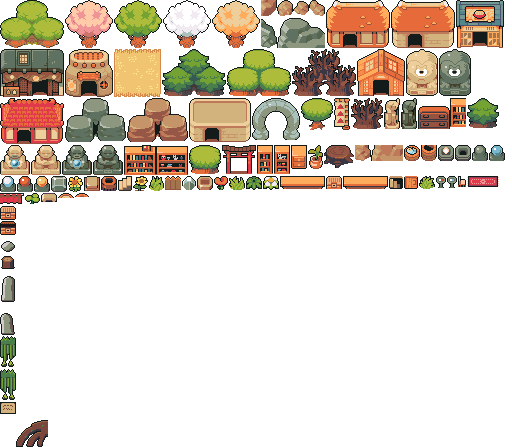
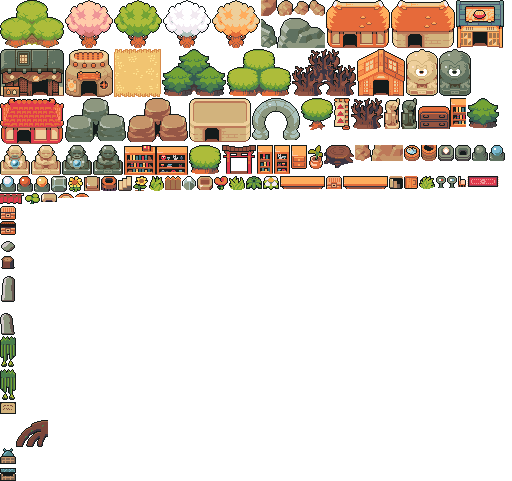
objects.png: grow the atlas to hold #52's supply_box rows (merge kept #50's 447px canvas); objects_overlay fails loudly on off-image/clipped cells; test:art checks every objects.json cell fits and is visible

Changed region(s): [[0.0, 0.0, 1.0, 1.0], [0.3438, 0.0, 0.4062, 0.0291]]

diff --git a/tools/art_custom.py b/tools/art_custom.py
@@ -126,10 +126,21 @@ def objects_overlay(log=True):
         if (w, h) != im.size:
             y = atlas.height + 1; x = 0; grown = Image.new('RGBA', (max(atlas.width, im.width), y + im.height), (0, 0, 0, 0))
             grown.alpha_composite(atlas, (0, 0)); atlas = grown; frames[n] = [x, y, im.width, im.height]; changed = True
+        if x + im.width > atlas.width or y + im.height > atlas.height:   # rect recorded in objects.json past the canvas (e.g. a merge kept a
+            # shorter objects.png than the objects.json it came with): grow the canvas to hold it instead of letting paste() clip it
+            grown = Image.new('RGBA', (max(atlas.width, x + im.width), max(atlas.height, y + im.height)), (0, 0, 0, 0))
+            grown.alpha_composite(atlas, (0, 0)); atlas = grown; changed = True
+            if log: print(f'art/custom objects: grew objects.png to {atlas.size} for {n} at {frames[n]}')
         cur = atlas.crop((x, y, x + im.width, y + im.height))
         if cur.tobytes() != im.tobytes():
             atlas.paste(Image.new('RGBA', im.size, (0, 0, 0, 0)), (x, y)); atlas.paste(im, (x, y)); changed = True
         done.append(n)
+    bad = [(k, r) for k, r in frames.items() if r[0] < 0 or r[1] < 0 or r[0] + r[2] > atlas.width or r[1] + r[3] > atlas.height]
+    if bad: raise SystemExit(f'art/custom objects: FAIL cells outside objects.png {atlas.size}: {bad}')
+    for n in done:   # a pasted override must land whole (never clipped)
+        x, y, w, h = frames[n]
+        if atlas.crop((x, y, x + w, y + h)).tobytes() != Image.open(os.path.join(d, n + '.png')).convert('RGBA').tobytes():
+            raise SystemExit(f'art/custom objects: FAIL {n} at {frames[n]} does not match art/custom/objects/{n}.png')
     if changed: atlas.save(png); json.dump(frames, open(js, 'w'))
     if log: print('art/custom objects:', done, '(atlas updated)' if changed else '(already applied)')
     return done

diff --git a/tests/test_frame_meta.py b/tests/test_frame_meta.py
@@ -76,6 +76,13 @@ check(gg.find('art_overlay(); art_manifest()') > gg.find("'ch3_assets.py'") > 0,
 wm = SPEC['willow_mother']['sprite']
 check(wm.get('noFar') is True and 'tint' not in wm, f'willow_mother: noFar and no tint expected: {wm}')
 check(wm.get('phaseStrips', {}).get('Rootstorm') == 'willow_mother_strained' and SPEC['kappa_toll']['sprite'].get('phaseStrips', {}).get('Dish Spilled') == 'kappa_toll_spilled', 'phaseStrips for Willow Rootstorm / Kappa Dish Spilled')
+# objects atlas: every objects.json cell must lie inside objects.png and hold at least one visible pixel (a merge once kept a
+# shorter objects.png than its objects.json, so the maze supply_box rects pointed off the image and the box was invisible)
+_oa = Image.open(os.path.join(ROOT, 'public', 'assets', 'objects.png')).convert('RGBA'); _of = json.load(open(os.path.join(ROOT, 'public', 'assets', 'objects.json')))
+for _n, (_x, _y, _w, _h) in _of.items():
+    _in = _x >= 0 and _y >= 0 and _x + _w <= _oa.width and _y + _h <= _oa.height
+    check(_in, f'objects.json {_n} {[_x, _y, _w, _h]} falls outside objects.png {_oa.size}')
+    if _in: check(_oa.crop((_x, _y, _x + _w, _y + _h)).getextrema()[3][1] > 0, f'objects.json {_n} {[_x, _y, _w, _h]} is fully transparent in objects.png')
 if fails:
     print('\nFAIL'); [print(' -', f) for f in fails]; sys.exit(1)
 print('\nOK: all boss frame layouts as expected; bell_keeper = 96x48 x6')
